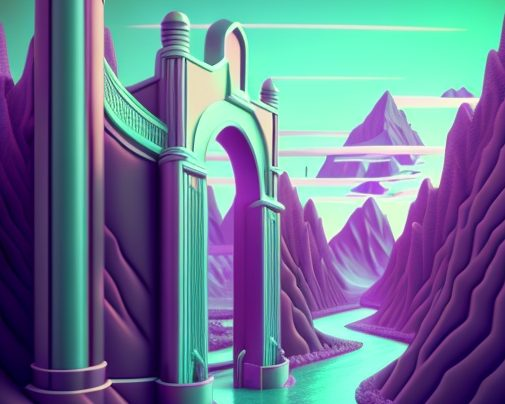
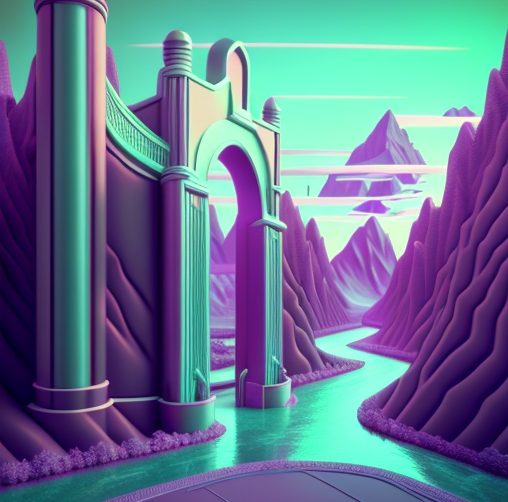
1

diff --git a/authentication/templates/authentication/base.html b/authentication/templates/authentication/base.html
@@ -10,7 +10,7 @@
     <link href="{% static 'css/bootstrap.css' %}" rel="stylesheet" type="text/css"/>
 </head>
 <body>
-<div class="vh-100" style="background-image: url('https://u9.by/assets/loginb.jpg'); background-size: cover;">
+<div class="vh-100" style="background-image: url('https://u9.by/assets/loginb2.jpg'); background-size: cover;">
     {% include 'authentication/nav.html' %}
 
     <div class="container mt-5">
